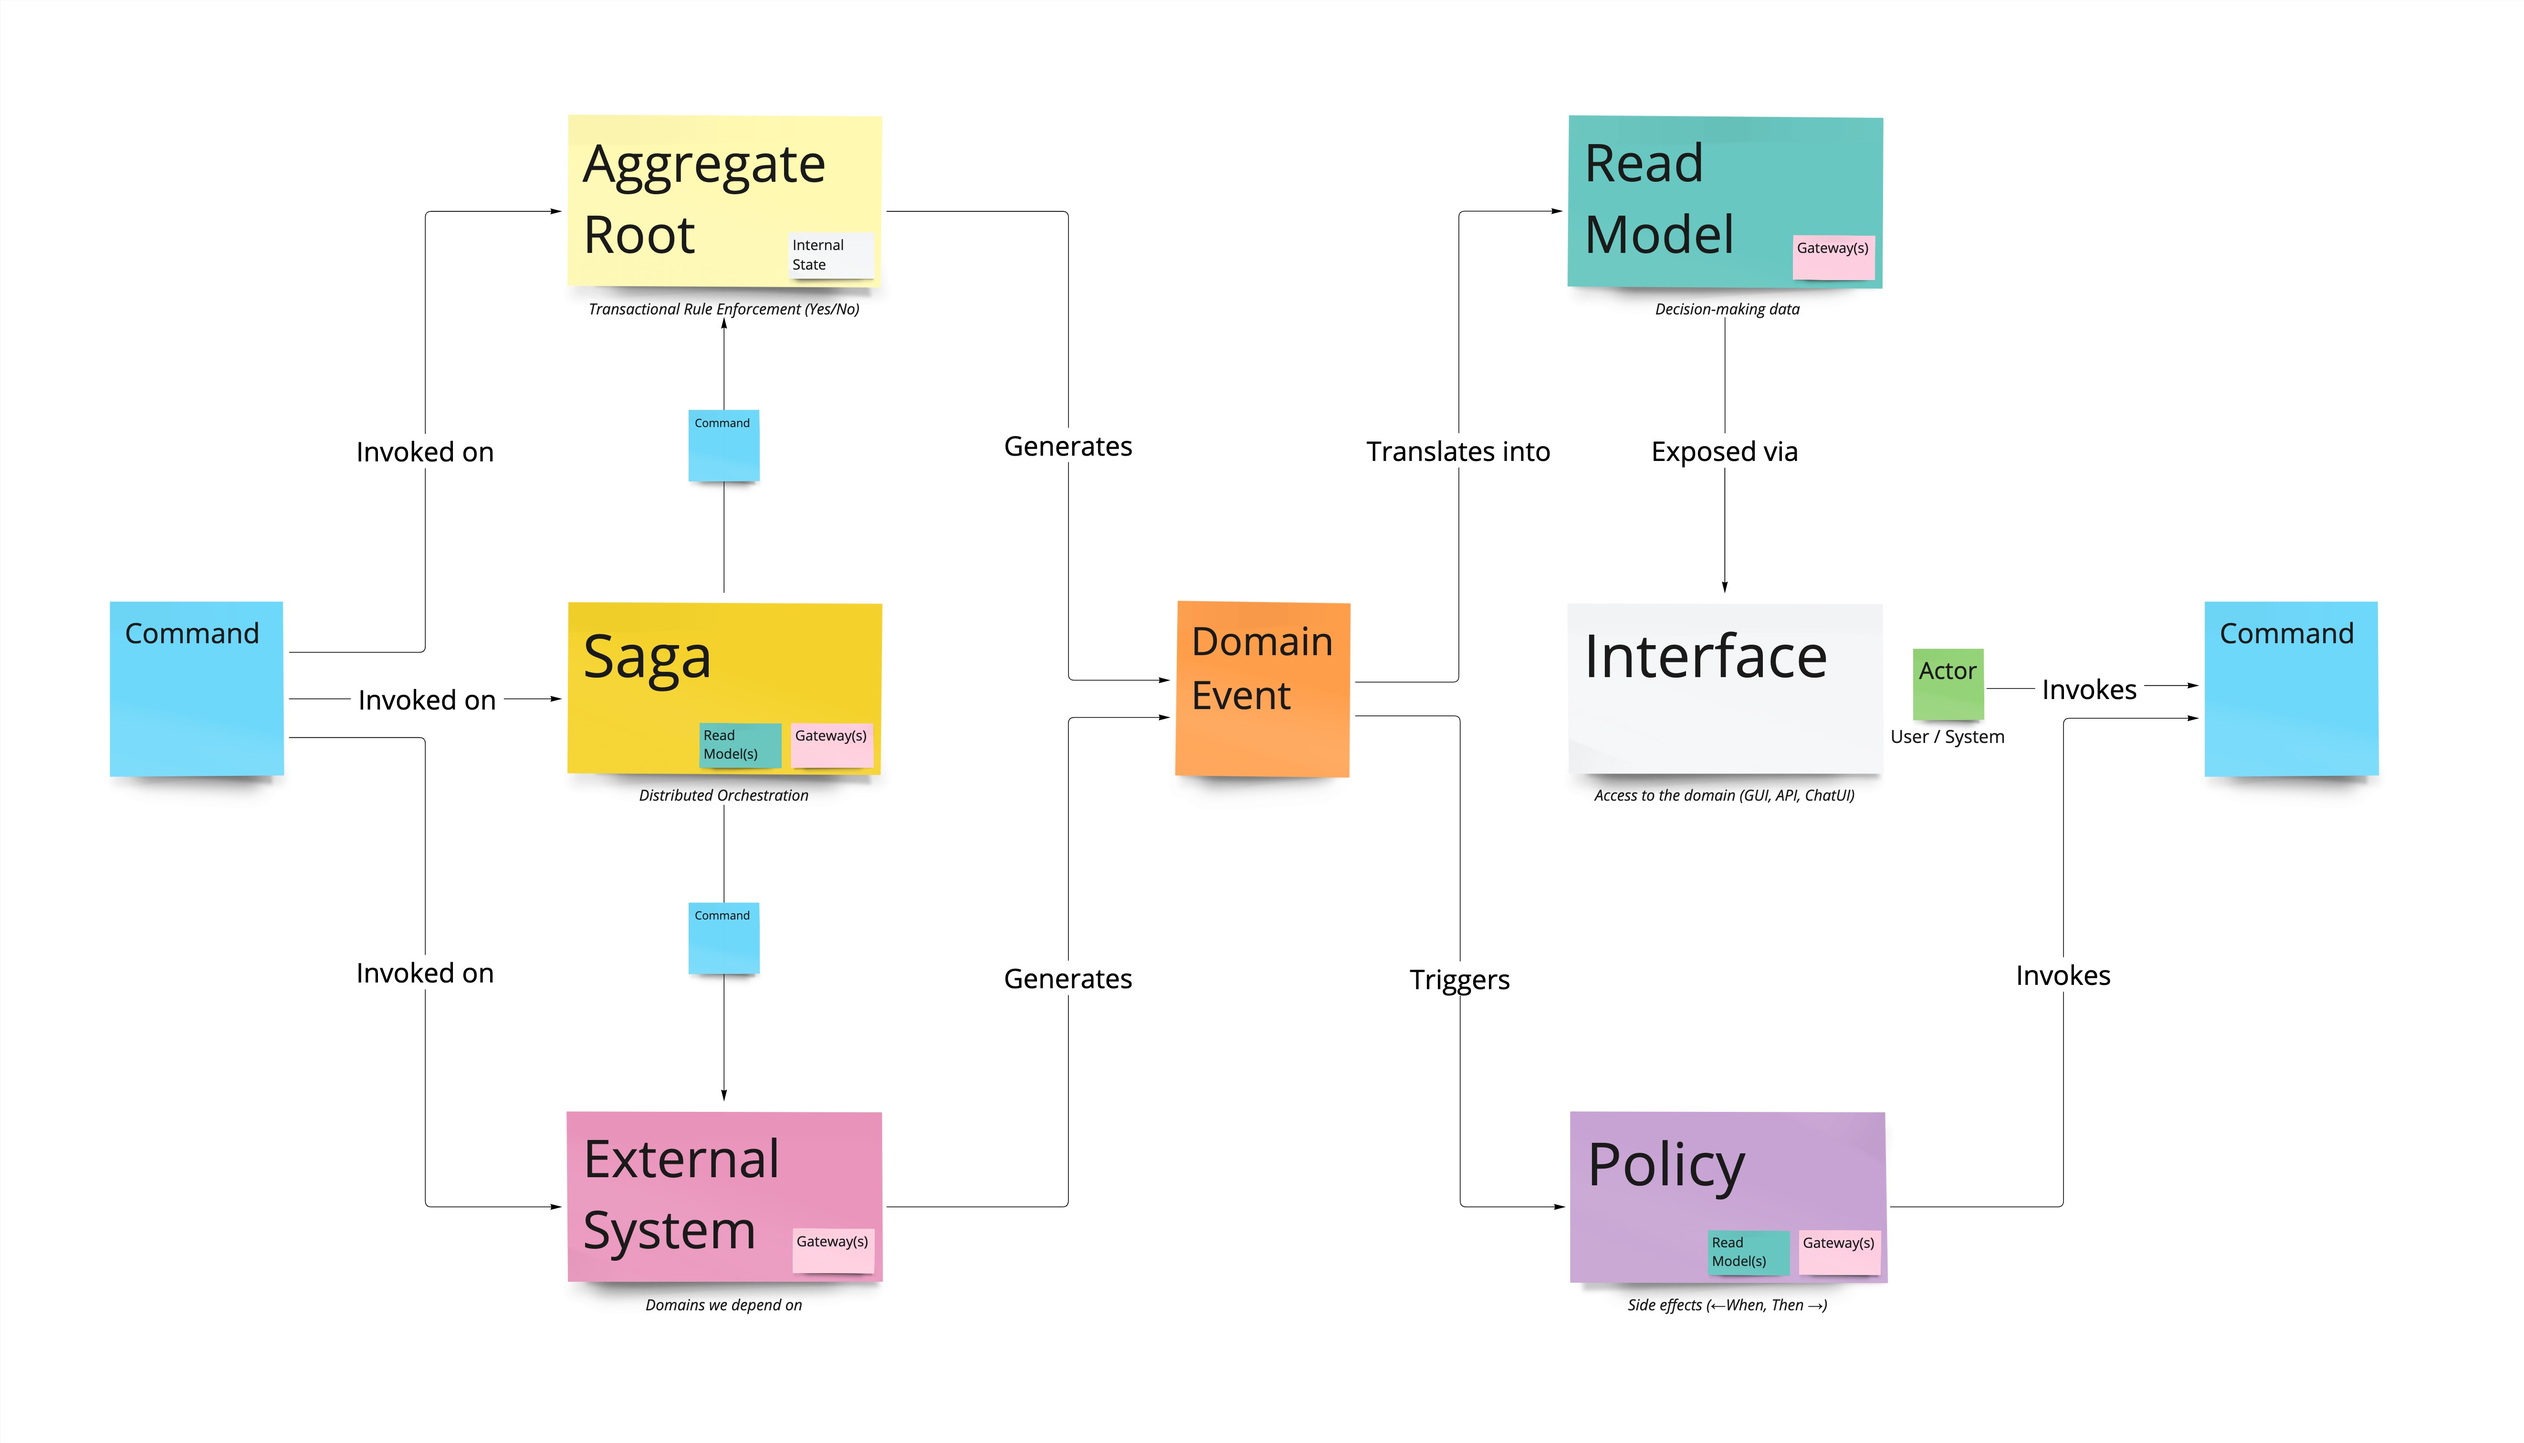
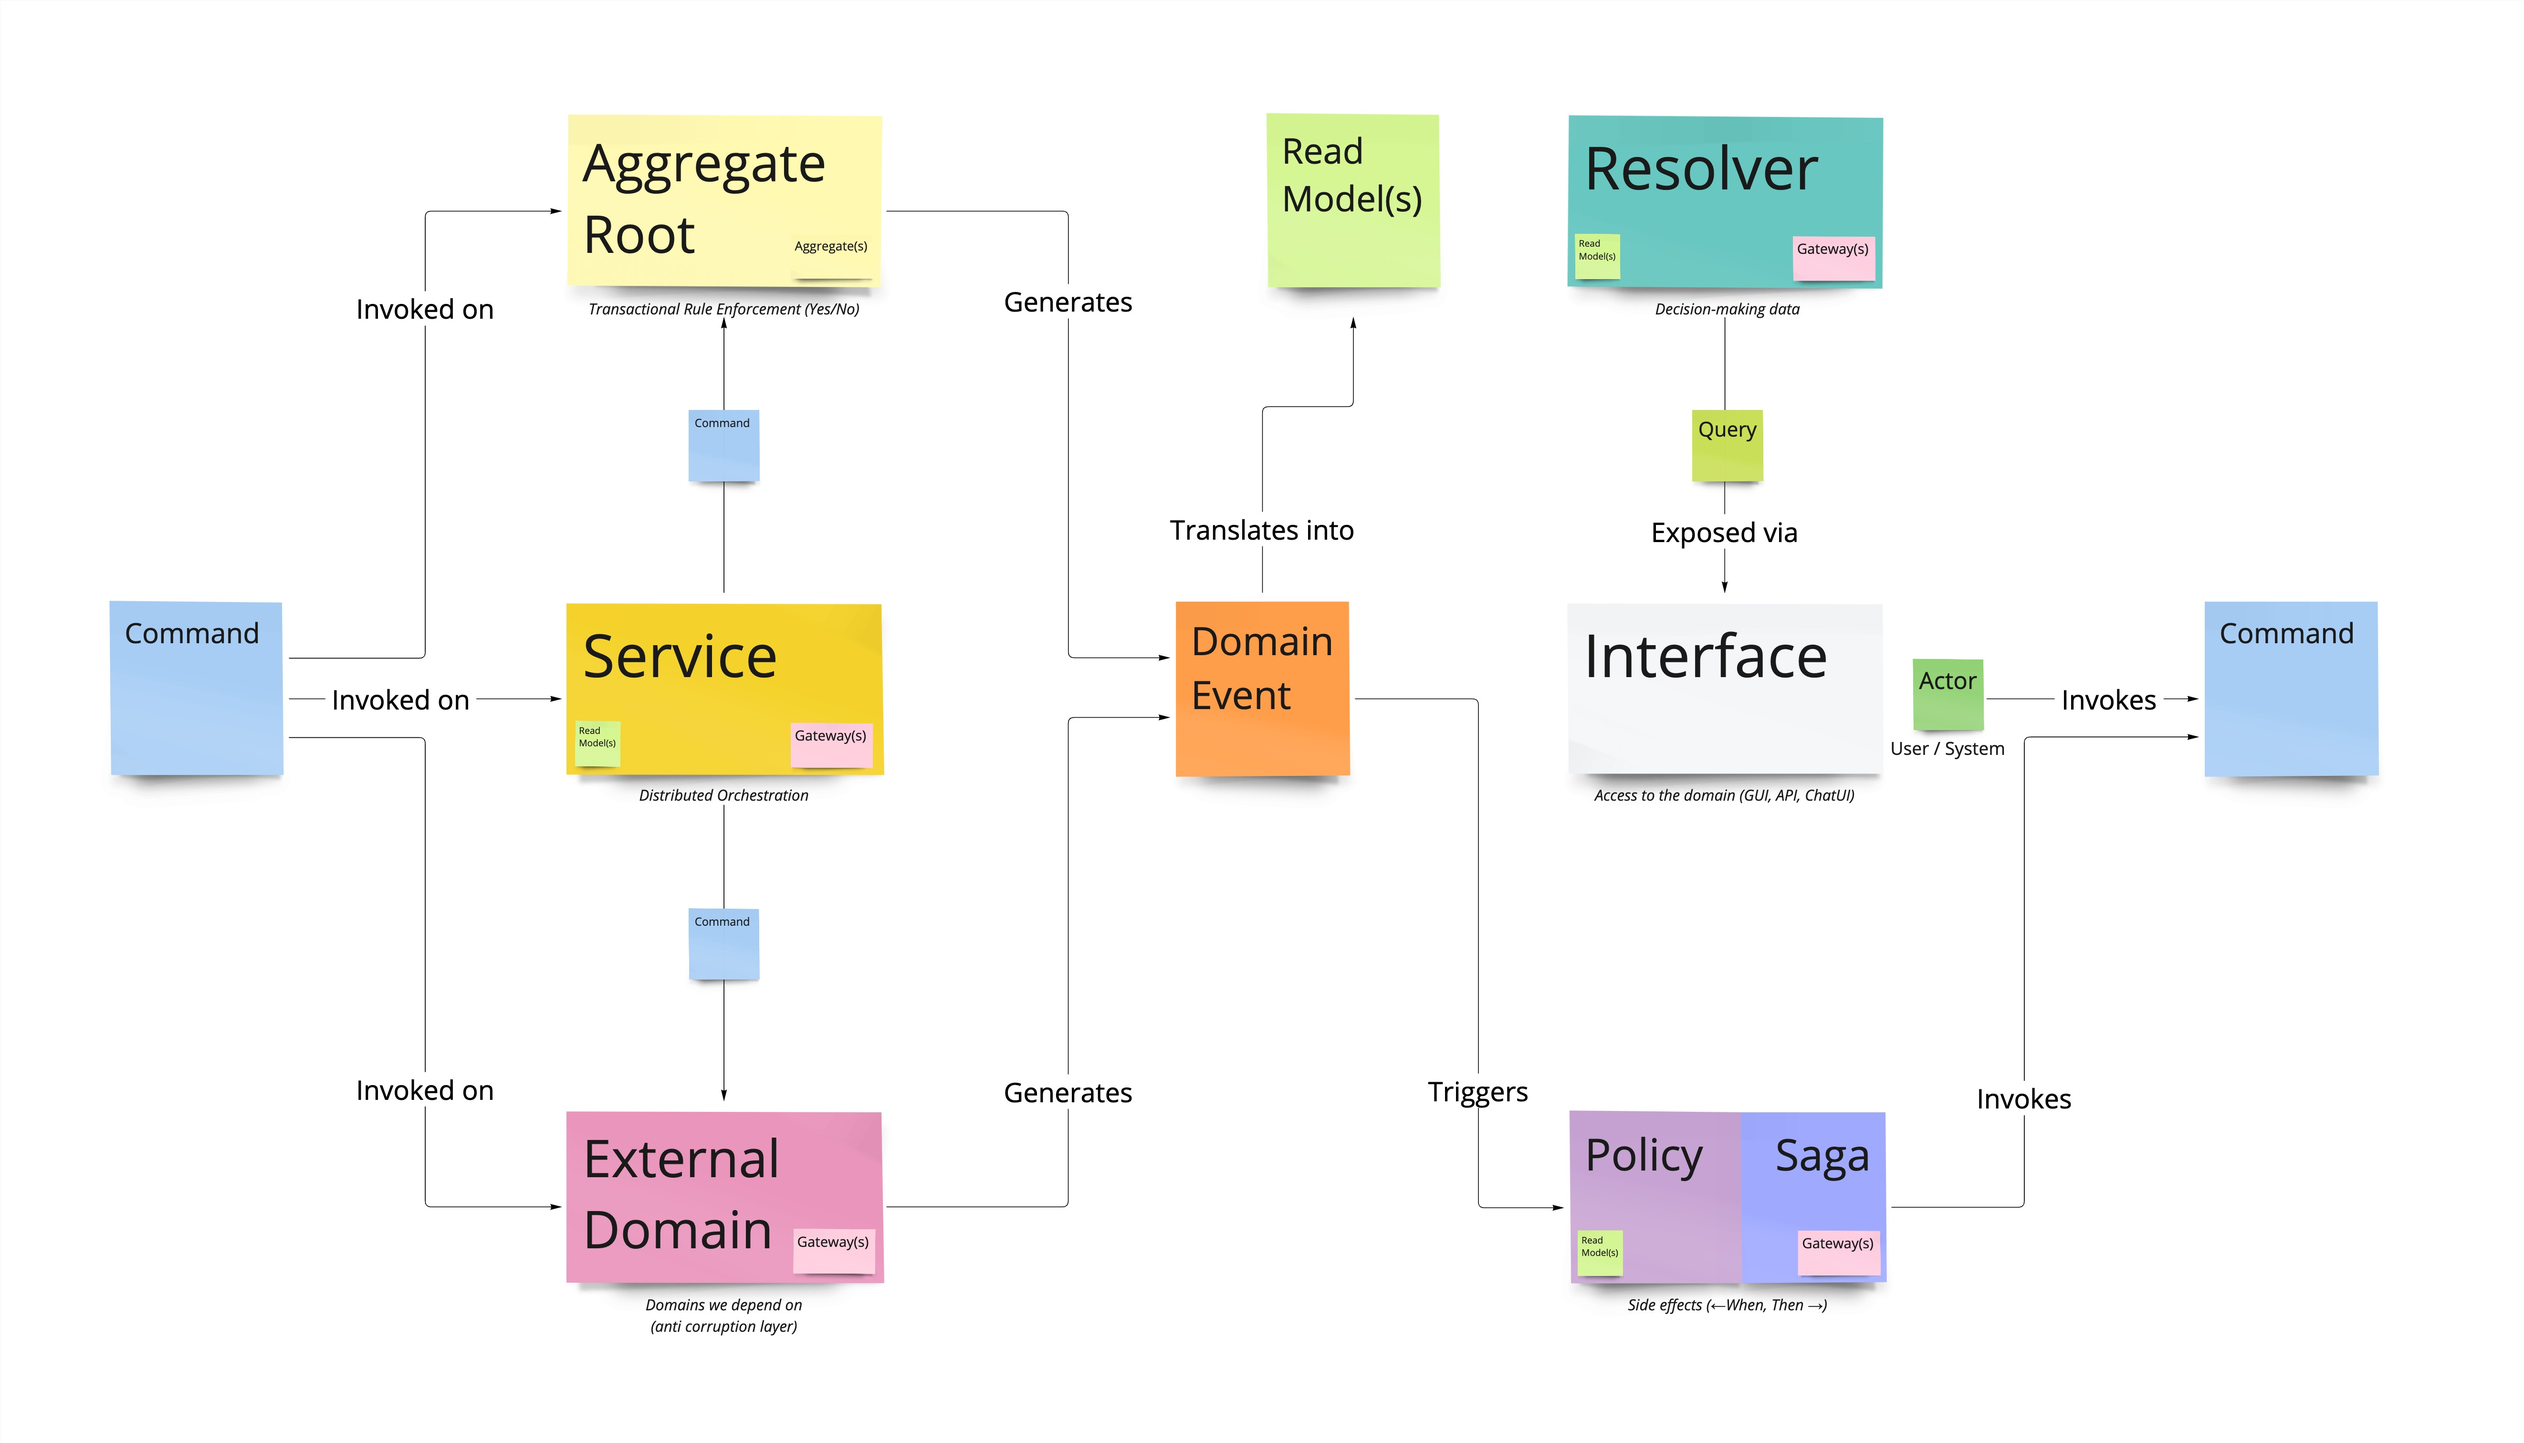
--wip-- [skip ci]

diff --git a/src/ExternalSystem.ts b/src/ExternalSystem.ts
@@ -2,6 +2,7 @@ import { Event } from './Event';
 
 export abstract class ExternalSystem {
   private readonly _changes: Event[] = [];
+  private error?: string;
 
   public getUncommittedChanges(): Event[] {
     return this._changes;
@@ -14,5 +15,14 @@ export abstract class ExternalSystem {
   protected applyChange(event: Event): boolean {
     this._changes.push(event);
     return true;
+  }
+
+  protected applyError(error: string): boolean {
+    this.error = error;
+    return false;
+  }
+
+  public getError(): string | undefined {
+    return this.error;
   }
 }

diff --git a/src/IService.ts b/src/IService.ts
@@ -1,0 +1,6 @@
+import { ICommandHandler } from './ICommandHandler';
+import { Command } from './Command';
+
+export interface IService extends ICommandHandler {
+  handle: (command: Command) => Promise<void>;
+}

diff --git a/src/ISaga.ts b/src/ISaga.ts
@@ -1,0 +1,6 @@
+import { Event } from './Event';
+import { IEventHandler } from './IEventHandler';
+
+export interface ISaga extends IEventHandler {
+  handle: (event: Event) => Promise<void>;
+}

diff --git a/src/ICommandHandler.ts b/src/ICommandHandler.ts
@@ -1,0 +1,2 @@
+// eslint-disable-next-line @typescript-eslint/no-empty-interface
+export interface ICommandHandler {}

diff --git a/README.md b/README.md
@@ -1,6 +1,6 @@
 # 🚀 The Domain Development Kit (DDK)
 
-_An Event-Storm to Event-Sourced application library_
+_An Event-Storm to Event-Sourced application library._
 
 Welcome to The Domain Development Kit (DDK), a lightweight application library (not framework) designed to take you from visual collaborative Event Storming sessions to an Event-Sourced application seamlessly. This is a library for developers looking to build complex systems with a strong emphasis on separating concerns and focusing on the business logic.
 
@@ -8,23 +8,35 @@ The key feature of the DDK is allowing you to build an application using the bui
 
 ![DDK Palette](images/palette.jpg)
 
-- Commands
-- Aggregates
-- Sagas
-- External Systems (In/Out)
-- Events
-- Read Models
-- Policies
+- **Messages** _allow the constructs below to communicate with one another._
+  - Commands
+  - Events
+- **Constraints** _enforce business rules and determine if events are allowed to happen._
+  - Aggregate Roots
+  - Aggregates
+  - External Systems
+- **Processes** _deal with orchestration in response to commands and events._
+  - Services
+  - Policies
+  - Sagas
+- **Data Retrieval** _constructs ensure efficient data access and usage._
+  - Read Models
+  - Resolvers
+  - Queries
+- **Interaction** _allows external actors to interact with the system._
+  - API
+  - UI
 
-Once you learn how to use these building blocks, you can build (almost) any backend you can imagine.
+Once you master these building blocks, you'll be able to build (almost) any internet-scale backend.
 
-Some versions of this library has been used to build a number of applications for enterprise clients at our sister company [Xolvio](https://www.xolv.io), and we're excited to share it with the world as the open-source counterpart to our cloud offering at [XSpecs.ai](https://www.xspecs.ai).
+Some versions of this library have been used to build a number of applications for enterprise clients at our sister company Xolvio.
+We're excited to share it with the world as the open-source counterpart to our cloud offering at [XSpecs.ai](https://www.xspecs.ai).
 
 ## 🤔 What is XSpecs.ai?
 
 XSpecs + DDK = Pure Joy. XSpecs provides you with a single source of truth for all your specs, and get this: You can go from Event Storming diagrams to a fully working application in a matter of hours. We've done it, and it's a beautiful thing!
 
-Using the Domain Schema Designer in XSpecs, you can create a visual representation of your domain model. XSpecs will then generate the all the scaffolding for you to use with the DDK to build your application.
+Using the Domain Schema Designer in XSpecs, you can create a visual representation of your domain model. XSpecs will then generate all the scaffolding for you to use with the DDK to build your application.
 
 Along with the boilerplate, XSpecs also does a first pass at coding your business logic, as well as tests using AI. The result is a massive time saving that allows you to focus on decoding complex domains into artful solutions, rather than being a syntax warrior.
 
@@ -40,7 +52,7 @@ Oh btw, XSpecs itself is built using the DDK! 🐶 🥣
 
 - **Event Sourcing and CQRS**: DDK encapsulates the complexity of implementing an Event-Sourcing architecture and Command Query Responsibility Segregation (CQRS) in your applications.
 - **Decorator-based Command and Event Handlers**: Easily register and handle commands and events using a declarative and intuitive decorator-based approach.
-- **Read Model Management**: DDK manages Read Models and their handlers, ensuring efficient handling of domain-specific views of your data.
+- **Read Model Management**: DDK manages Read Models and their handlers, ensuring efficient handling of domain-specific data views.
 - **Serialization**: DDK comes with a built-in Serializer class that allows developers to serialize and deserialize domain events into a form that can be stored and retrieved.
 
 ## 🔑 Key Components
@@ -59,7 +71,7 @@ More detailed documentation about specific modules, usage examples, and advanced
 
 ## 🚀 Getting Started on DDK development
 
-_For building apps using the DDK please refer to our documentation_
+_For building apps using the DDK, please refer to our documentation_
 
 1. Clone the repository.
 2. Install dependencies with `yarn install`.
@@ -83,4 +95,4 @@ Please make sure you are familiar with:
 - [Commitizen](https://commitizen-tools.github.io/commitizen/)
 - [Semantic Release](https://semantic-release.gitbook.io/semantic-release/)
 
-📖 "Code is read much more often than it is written, so plan accordingly." - Anonymous
+📖 "Code is read much more often than it is written, so plan accordingly." — Anonymous
